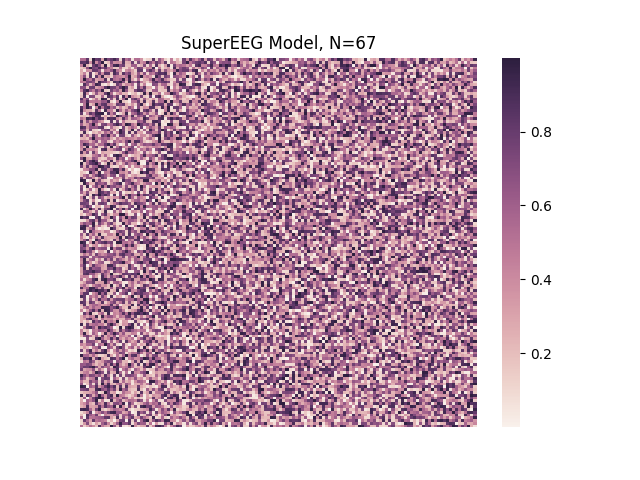
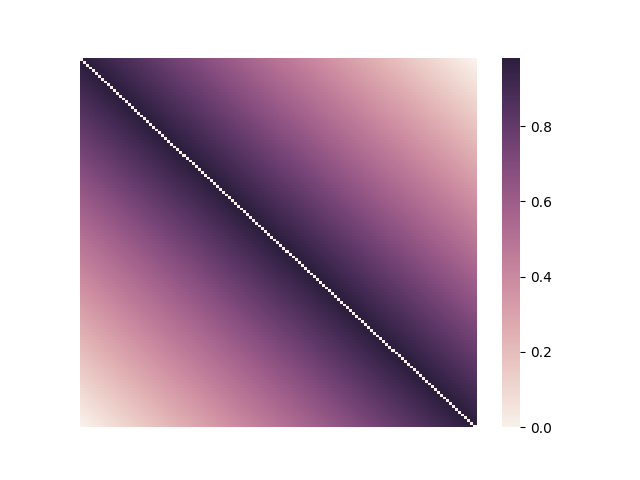
fixed example_model

diff --git a/superEEG/load.py b/superEEG/load.py
@@ -13,7 +13,6 @@ from ._helpers.stats import tal2mni
 from ._helpers.stats import z2r
 from ._helpers.stats import r2z
 
-
 def load(fname):
     """
     Load nifti file, brain or model object, or example data.
@@ -59,16 +58,11 @@ def load(fname):
 
     # load example model
     elif fname is 'example_model':
-
-        with open(os.path.dirname(os.path.abspath(__file__)) + '/../superEEG/data/R_small_MNI.npy', 'rb') as handle:
-            locs = np.load(handle)
-
-        with open(os.path.dirname(os.path.abspath(__file__)) + '/../superEEG/data/average_model_k_10_r_20.npz', 'rb') as handle:
-            f = np.load(handle)
-            model = r2z(scipy.linalg.toeplitz(np.linspace(0,.99,len(locs))[::-1]))
-            model[np.eye(model.shape[0]) == 1] = 0
-            model[np.where(np.isnan(model))] = 0
-            n_subs = np.ones((len(locs), len(locs)))
+        locs = np.random.multivariate_normal(np.zeros(3), np.eye(3), size=100)
+        model = r2z(scipy.linalg.toeplitz(np.linspace(0,.99,len(locs))[::-1]))
+        model[np.eye(model.shape[0]) == 1] = 0
+        model[np.where(np.isnan(model))] = 0
+        n_subs = np.ones((len(locs), len(locs)))
 
         return Model(numerator=model, denominator=n_subs, n_subs=2, locs=locs)
 

diff --git a/docs/auto_examples/plot_model.py b/docs/auto_examples/plot_model.py
@@ -15,7 +15,7 @@ Here we load the example model, and then plot it.
 import superEEG as se
 
 # load example data
-bo = se.load('example_model')
+model = se.load('example_model')
 
 # plot it
-model.plot()
+model.plot(xticklabels=False, yticklabels=False)

diff --git a/docs/auto_examples/index.rst b/docs/auto_examples/index.rst
@@ -29,26 +29,6 @@ Gallery of Examples
 
 .. raw:: html
 
-    <div class="sphx-glr-thumbcontainer" tooltip="Here we load the example model, and then plot it.">
-
-.. only:: html
-
-    .. figure:: /auto_examples/images/thumb/sphx_glr_plot_model_thumb.png
-
-        :ref:`sphx_glr_auto_examples_plot_model.py`
-
-.. raw:: html
-
-    </div>
-
-
-.. toctree::
-   :hidden:
-
-   /auto_examples/plot_model
-
-.. raw:: html
-
     <div class="sphx-glr-thumbcontainer" tooltip="Here, we load an example dataset and then print out some information about it.">
 
 .. only:: html
@@ -66,6 +46,26 @@ Gallery of Examples
    :hidden:
 
    /auto_examples/plot_load_example_data
+
+.. raw:: html
+
+    <div class="sphx-glr-thumbcontainer" tooltip="Here we load the example model, and then plot it.">
+
+.. only:: html
+
+    .. figure:: /auto_examples/images/thumb/sphx_glr_plot_model_thumb.png
+
+        :ref:`sphx_glr_auto_examples_plot_model.py`
+
+.. raw:: html
+
+    </div>
+
+
+.. toctree::
+   :hidden:
+
+   /auto_examples/plot_model
 
 .. raw:: html
 

diff --git a/docs/auto_examples/plot_model.rst b/docs/auto_examples/plot_model.rst
@@ -13,13 +13,8 @@ Here we load the example model, and then plot it.
 
 
 
-.. code-block:: pytb
-
-    Traceback (most recent call last):
-      File "/Users/andyheusser/Library/Enthought/Canopy_64bit/User/lib/python2.7/site-packages/sphinx_gallery/gen_rst.py", line 475, in execute_code_block
-        exec(code_block, example_globals)
-      File "<string>", line 12, in <module>
-    NameError: name 'model' is not defined
+.. image:: /auto_examples/images/sphx_glr_plot_model_001.png
+    :align: center
 
 
 
@@ -35,12 +30,12 @@ Here we load the example model, and then plot it.
     import superEEG as se
 
     # load example data
-    bo = se.load('example_model')
+    model = se.load('example_model')
 
     # plot it
-    model.plot()
+    model.plot(xticklabels=False, yticklabels=False)
 
-**Total running time of the script:** ( 0 minutes  0.000 seconds)
+**Total running time of the script:** ( 0 minutes  0.308 seconds)
 
 
 
